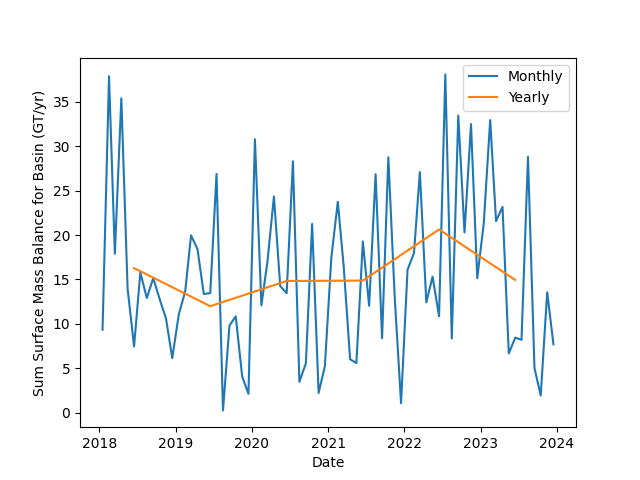
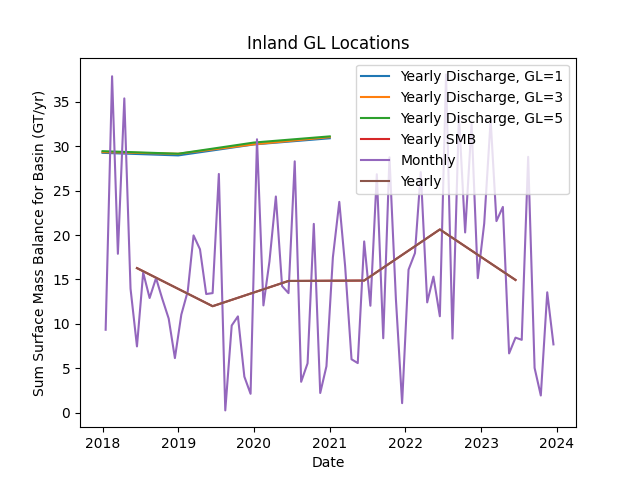
v1 of sm plots and calcs done

diff --git a/src/mb.py b/src/mb.py
@@ -30,9 +30,10 @@ Equilibrium:
 class MBCalculation():
     def __init__(self, xlims, ylims, flags):
 
-        self.thickness_calculator = ThicknessEquilibrium(xlims, ylims, flags)
+        self.thickness_calculator = ThicknessBedmapREMA(xlims, ylims, flags)
         self.flux_calculator = VelocityFlux(xlims, ylims, flags)
         self.SMB = SMBManager(xlims, ylims, flags, 'smb')
+        self.flags = flags
 
         self.results = gpd.read_file(GL_GPKG_manual)
         pass
@@ -49,49 +50,42 @@ class MBCalculation():
 
         thickness = self.thickness_calculator.get_thickness(df)
         vels = self.flux_calculator.get_velocity(df, year=year)
-        print(thickness)
-        vels.to_file(
-            'PROGRESS.gpkg'
-        )
+        if len(vels['velx'].dropna()) != 0:
+            vels.to_file(
+                'DISCHARGE_SAMPLE.gpkg'
+            )
         discharges = []
 
         for x in df['id'].unique():
             discharge = (vels[vels['id'] == x]['discharge_vel'] * thickness[thickness['id'] == x]['thickness'] * thickness[thickness['id'] == x]['lens'] * GLACIAL_ICE_DENSITY) / 1e12
-            print(np.sum(discharge))
+            
             discharges.append(np.sum(discharge))
 
         df['discharge'] = discharges
 
         df['discharges_total_vel'] = discharges
-        print(df)
         self.calculate_discharge()
 
         return discharges[0]
     
 
-    def plot_MB(self, id=[1, 3, 5]):
+    def plot_MB(self, ids=[1, 2, 3, 4, 5], title='All GL Locations'):
 
         smb_df = self.SMB.get_surface_balance_df()
-        print(smb_df)
 
 
-        for ids in id:
+        for id in ids:
 
             discharges = []
             discharges_dt = []
             for dt in smb_df.dt:
-                dis = self.get_discharge_results(id=ids, year = dt.year)
+                dis = self.get_discharge_results(id=id, year = dt.year)
                 if dis == 0:
                     continue
                 discharges.append(dis)
-                print(datetime.datetime(dt.year, 1, 1))
                 discharges_dt.append(datetime.datetime(dt.year, 1, 1))
 
-            plt.plot(discharges_dt, discharges, label='Yearly Discharge, GL=' + str(ids))
-
-
-
-        print(discharges)
+            plt.plot(discharges_dt, discharges, label='Yearly Discharge, GL=' + str(id))
 
 
         '''discharges = []
@@ -99,16 +93,14 @@ class MBCalculation():
             d = self.get_results(x)
             discharges.append(d)'''
 
-        print(self.results)
 
-        title = 'Inland GL Location'
 
         plt.plot(smb_df['dt'], smb_df['smb'], label='Yearly SMB')
         plt.legend()
         plt.xlabel('Date')
         plt.ylabel('Sum Total Mass (GT/yr)')
         plt.title(title)
-        plt.savefig(title + '_SMBs.png')
+        plt.savefig(MB_OUTPUT + title + self.flags.sources_v()[0][0] + '_' + str(self.thickness_calculator) +'_SMBs.png')
 
 
 
@@ -139,11 +131,10 @@ class VelocityFlux(FlowProfile):
 
         self.velx_manager = VelocityManager(self.xlim, self.ylim, self.flags, 'velx')
         self.vely_manager = VelocityManager(self.xlim, self.ylim, self.flags, 'vely')
-        print(self.flags)
 
         out_x = self.velx_manager.get_ouput_files()
         out_y = self.vely_manager.get_ouput_files()
-        print(out_x)
+        
         vel_df = gl_geotiff_s_join(out_x, gdp, label='velx')
         vel_df = vel_df.merge(gl_geotiff_s_join(out_y, gdp, label='vely'))
 
@@ -156,7 +147,7 @@ class VelocityFlux(FlowProfile):
         vel_df['discharge_vel'] = np.abs(np.sin(np.deg2rad(vel_df['vel_angle_diff'])) * vel_df['total_vel'])
         #vel_df['discharge_vel'][vel_df['discharge_vel'] < 0] = 0 
         #vel_df['discharge_vel2'] = np.sin(vel_df['vel_angle_diff']) * vel_df['total_vel']
-        print(vel_df)
+        
         return vel_df
 
 
@@ -196,6 +187,9 @@ class ThicknessEquilibrium(ThicknessCalculation):
         self.geoid = GeoidManager(xlims, ylims, flags, '2008')
         pass
 
+    def __str__(self):
+        return 'equilibrium'
+
     def get_thickness(self, gdp):
         rema = self.REMA.get_ouput_files()
         geoid = self.geoid.get_ouput_files()
@@ -218,6 +212,9 @@ class ThicknessBedmapREMA(ThicknessCalculation):
         self.REMA = REMATileManager(xlims, ylims, flags, 'rema')
         self.bed = BedmapManager(xlims, ylims, flags, 'bedmachine')
         pass
+
+    def __str__(self):
+        return 'bedmapREMA'
 
     def get_thickness(self, gdp):
         rema = self.REMA.get_ouput_files()

diff --git a/src/file_manager.py b/src/file_manager.py
@@ -258,8 +258,8 @@ class VelocityManager(FileManager):
         super().__init__(xlims, ylims, flags, data, ftype, fname_formats=fname_formats, h5_location=h5_location,
                             source_override=source_override, label=label, 
                             further_processing=further_processing, base_drop_vars=base_drop_vars)
-        if self.sources != None and len(self.sources) == 1 and self.data == 'vel':
-            self.label += "_" + self.sources[0][0]
+        for x in flags.sources_v():
+            self.label += "_" + x[0]
         
         
 
@@ -273,7 +273,7 @@ class VelocityManager(FileManager):
     def get_tif_velocity_fname(self, year, target_source=None):
         
         #if target_source != None and len(self.sources) != 1:
-        return 'velocities/' + str(year) + "_" + self.label + "_v." + self.ftype
+        return 'velocities/' + str(year) + "_" + self.label + "_v.tif"
         #return 'velocities/' + str(year) + self.label + "_v.tif"
         
 

diff --git a/src/main.py b/src/main.py
@@ -103,7 +103,7 @@ class main():
                     f.remove('-measures')
                     f.remove('-itslive')
                     f.add(s)
-                    print(self.build_files(dim='y', special_flags=f))
+                    print(self.build_files(dim='x', special_flags=f))
                 #print(self.build_files(dim='x', special_flags=f))
             elif x == 'vely':
 
@@ -167,6 +167,8 @@ class main():
         if self.flags.chart_type() == 'mb':
             mb_manager = MBCalculation(self.xlim, self.ylim, self.flags)
             mb_manager.plot_MB()
+            mb_manager.plot_MB(ids=[1, 3, 5], title='Inland GL Locations')
+            mb_manager.plot_MB(ids=[2, 4], title='Offshore GL Locations')
 
         if self.flags.chart_type() == 'elev-error':
             self.get_elevation_error()